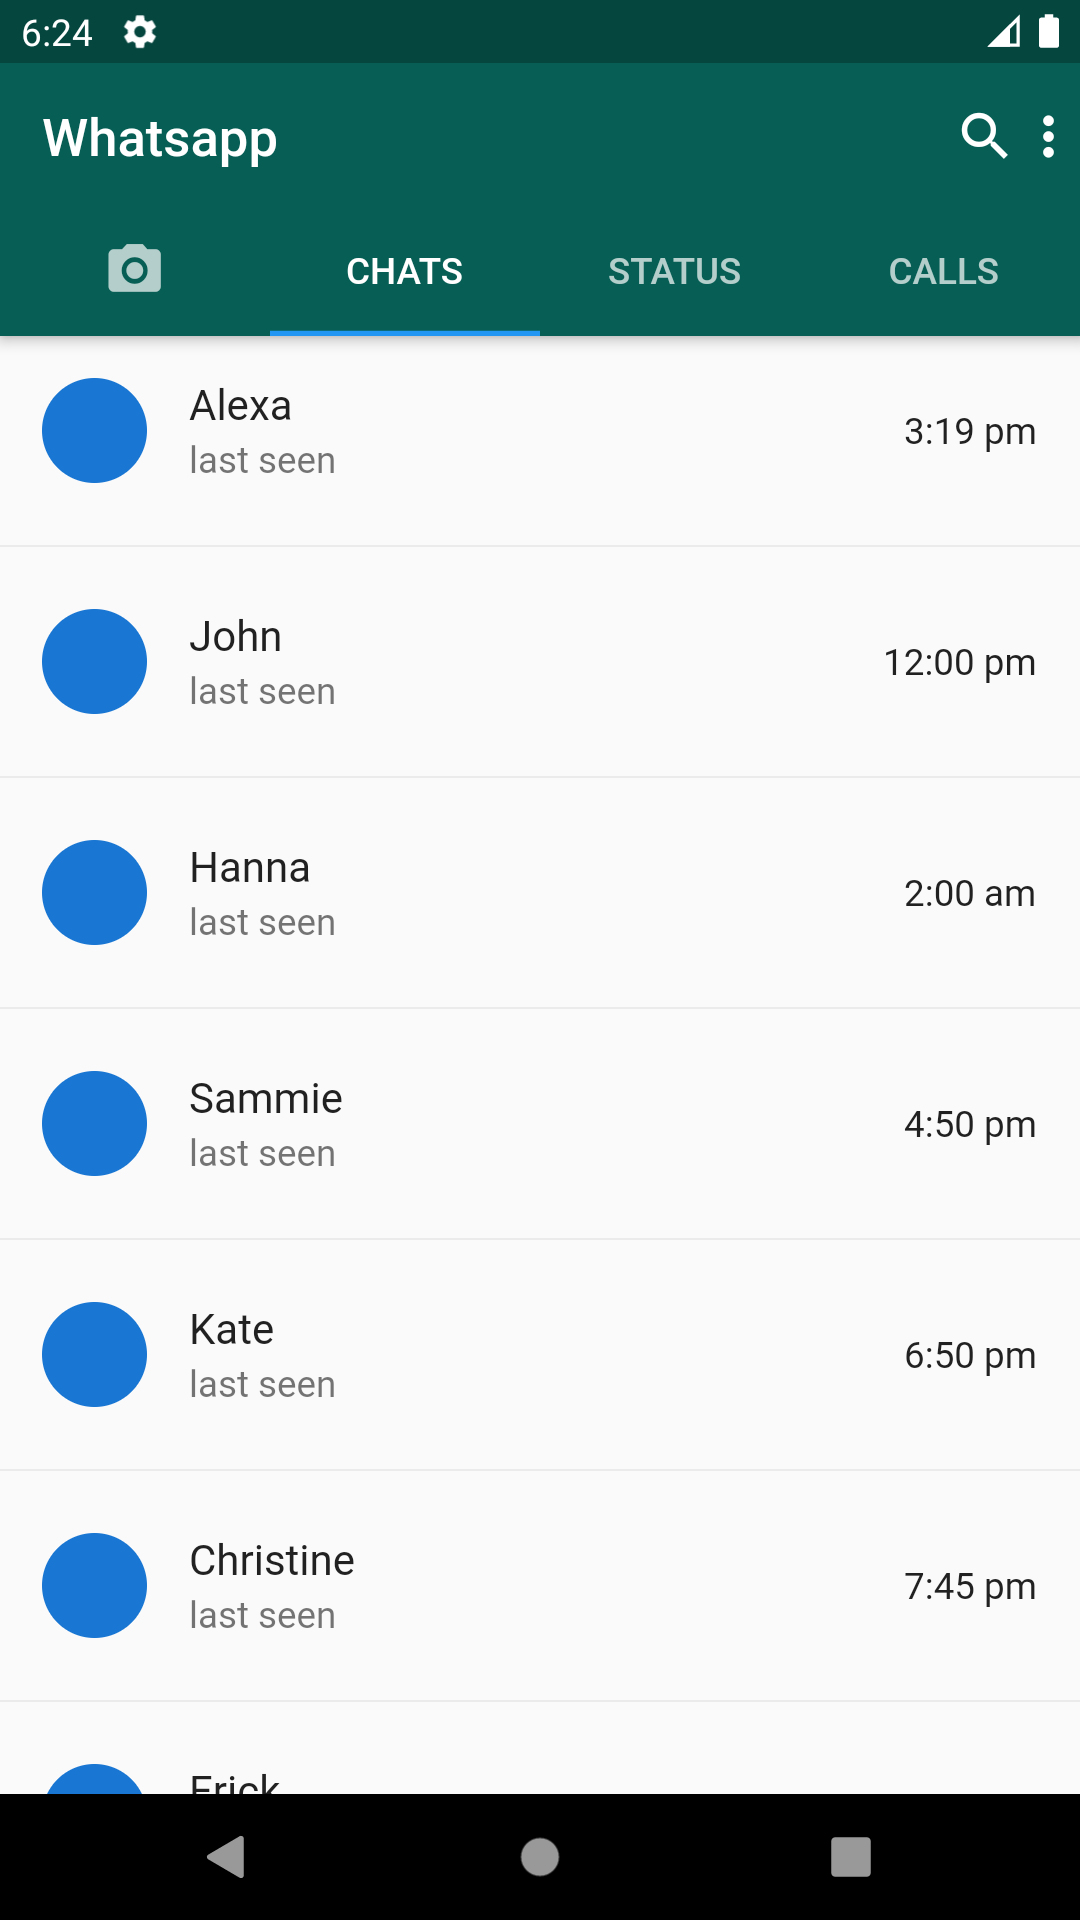
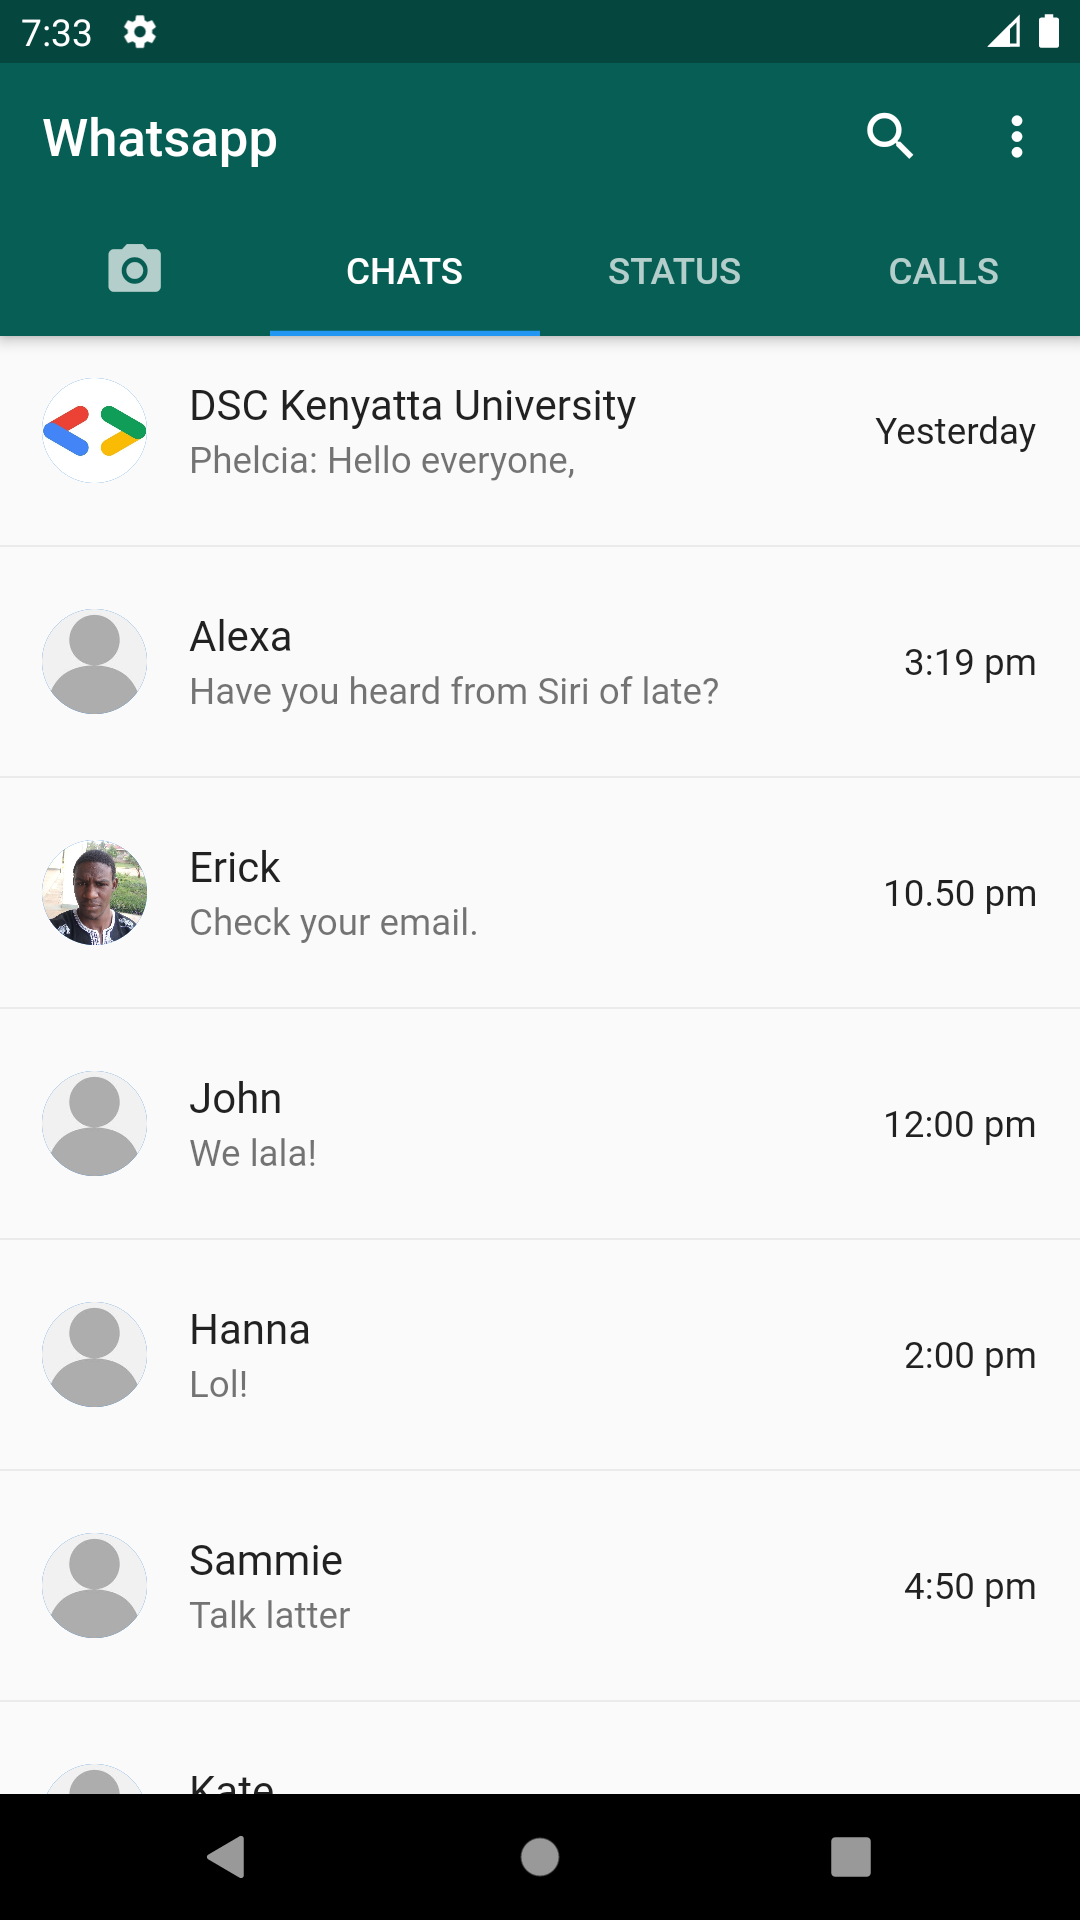
Extracted chats from UI code and a some UI changes

diff --git a/lib/main.dart b/lib/main.dart
@@ -1,14 +1,15 @@
 import 'package:flutter/material.dart';
+import 'data/chatsrepository.dart';
 
 void main() => runApp(MyApp());
 
 //MyApp
-class MyApp extends StatelessWidget{
-  @override 
+class MyApp extends StatelessWidget {
+  @override
   Widget build(BuildContext context) {
-    return (MaterialApp( 
+    return (MaterialApp(
       title: 'DSCKU Whatsapp Clone',
-      theme: ThemeData( 
+      theme: ThemeData(
         primaryColor: Color(0xFF075E54),
       ),
       home: WhatsappUI(),
@@ -17,93 +18,72 @@ class MyApp extends StatelessWidget{
   }
 }
 
-class WhatsappUI extends StatelessWidget { 
-  @override 
+class WhatsappUI extends StatelessWidget {
+  @override
   Widget build(BuildContext context) {
+    final chats = ChatsRepository.getAll();
+
     return DefaultTabController(
-          initialIndex: 1,
-          length: 4,
-          child: Scaffold( 
-        appBar: AppBar( 
-          title: Text('Whatsapp'),
-          actions: <Widget>[
-            Icon(Icons.search),
-            Icon(Icons.more_vert),
-          ],
-          bottom: TabBar(
-            tabs: <Widget>[ 
-            Tab(child: Icon(Icons.photo_camera),),
-            Tab(child: Text('CHATS'),),
-            Tab(child: Text('STATUS'),),
-            Tab(child: Text('CALLS'),),
-          ],)
-          ),
+      initialIndex: 1,
+      length: 4,
+      child: Scaffold(
+          appBar: AppBar(
+              title: Text('Whatsapp'),
+              actions: <Widget>[
+                IconButton(icon: Icon(Icons.search, color: Color(0xFFFFFFFF),), onPressed: null),
+                IconButton(icon: Icon(Icons.more_vert, color: Color(0xFFFFFFFF),), onPressed: null),
+              ],
+              bottom: TabBar(
+                tabs: <Widget>[
+                  Tab(
+                    child: Icon(Icons.photo_camera),
+                  ),
+                  Tab(
+                    child: Text('CHATS'),
+                  ),
+                  Tab(
+                    child: Text('STATUS'),
+                  ),
+                  Tab(
+                    child: Text('CALLS'),
+                  ),
+                ],
+              )),
           body: TabBarView(
             children: <Widget>[
-            Text( 
-              "Hello"
-            ),
-            Center(child: ListView(children: <Widget>[
-             ListTile( 
-                leading: CircleAvatar(),
-                title:  Text('Alexa'),
-                subtitle: Text('last seen'),
-                trailing: Text('3:19 pm'),
+              Center(
+                child: Text("Camera"),
               ),
-              Divider(),
-              ListTile( 
-                leading: CircleAvatar(),
-                title:  Text('John'),
-                subtitle: Text('last seen'),
-                trailing: Text('12:00 pm'),
+              Center(
+                child: ListView.separated(
+                    separatorBuilder: (context, index) => Divider(),
+                    itemCount: chats.length,
+                    itemBuilder: (context, index) {
+                      var chat = chats[index];
+                      var message = chat.messages.last;
+
+                      return ListTile(
+                        leading: CircleAvatar(
+                          backgroundImage:
+                              AssetImage(chat.avatar ?? "images/person.jpeg"),
+                        ),
+                        title: Text(chat.displayName),
+                        subtitle: Text(
+                          "${(chat.isGroupChat ? message.from + ': ' : '')}${message.messageText}",
+                          maxLines: 1,
+                        ),
+                        trailing: Text(message.sendTime),
+                      );
+                    }),
               ),
-              Divider(),
-              ListTile( 
-                leading: CircleAvatar(),
-                title:  Text('Hanna'),
-                subtitle: Text('last seen'),
-                trailing: Text('2:00 am'),
+              Center(
+                child: Text("Status"),
               ),
-              Divider(),
-              ListTile( 
-                leading: CircleAvatar(),
-                title:  Text('Sammie'),
-                subtitle: Text('last seen'),
-                trailing: Text('4:50 pm'),
+              Center(
+                child: Text("Calls"),
               ),
-              Divider(),
-              ListTile( 
-                leading: CircleAvatar(),
-                title:  Text('Kate'),
-                subtitle: Text('last seen'),
-                trailing: Text('6:50 pm'),
-              ),
-              Divider(),
-              ListTile( 
-                leading: CircleAvatar(),
-                title:  Text('Christine'),
-                subtitle: Text('last seen'),
-                trailing: Text('7:45 pm'),
-              ),
-              Divider(),
-              ListTile( 
-                leading: CircleAvatar(),
-                title:  Text('Erick'),
-                subtitle: Text('last seen'),
-                trailing: Text('10:50 pm'),
-              ),
-              Divider(),
-              
-            ],),
-            ),
-            Text( 
-              "status"
-            ),
-            Text( 
-              "calls"
-            ),
-          ],)
-      ),
-    ) ;
+            ],
+          )),
+    );
   }
 }

diff --git a/lib/data/chatsrepository.dart b/lib/data/chatsrepository.dart
@@ -1,0 +1,33 @@
+import 'chat.dart';
+import 'message.dart';
+
+class ChatsRepository {
+  static List<Chat> getAll() {
+    return [
+      Chat("DSC Kenyatta University", [
+        Message("Phelcia", "Yesterday", "Hello everyone,\nI hope you're all doing great.\n\nIf we were to organize virtual DSC KU sessions;\n1. Would you attend? If no, why?\n2. If yes, what day and time would work for you?")
+      ], isGroupChat: true, avatar: "images/dsc_icon.jpeg"),
+      Chat("Alexa", [
+        Message("Alexa", "3:19 pm", "Have you heard from Siri of late?")
+      ]),
+      Chat("Erick", [
+        Message("Erick", "10.50 pm", "Check your email.")
+      ], avatar: "images/eric_icon.jpeg"),
+      Chat("John", [
+        Message("John", "12:00 pm", "We lala!")
+      ]),
+      Chat("Hanna", [
+        Message("Hanna", "2:00 pm", "Lol!")
+      ]),
+      Chat("Sammie", [
+        Message("Me", "4:50 pm", "Talk latter")
+      ]),
+      Chat("Kate", [
+        Message("Me", "6:50 pm", "I don't get you!")
+      ]),
+      Chat("Christine", [
+        Message("Me", "7:45 pm", "Peace")
+      ]),
+    ];
+  }
+}

diff --git a/lib/data/chat.dart b/lib/data/chat.dart
@@ -1,0 +1,15 @@
+import 'message.dart';
+
+class Chat {
+  String avatar;
+  String displayName;
+  bool isGroupChat;
+  List<Message> messages;
+
+  Chat(String displayName, List<Message> messages, { String avatar, isGroupChat: false }) {
+    this.displayName = displayName;
+    this.messages = messages;
+    this.isGroupChat = isGroupChat;
+    this.avatar = avatar;
+  }
+}

diff --git a/lib/data/message.dart b/lib/data/message.dart
@@ -1,0 +1,11 @@
+class Message {
+  String from;
+  String sendTime;
+  String messageText;
+
+  Message(String from, String sendTime, String messageText) {
+    this.from = from;
+    this.sendTime = sendTime;
+    this.messageText = messageText;
+  }
+}
